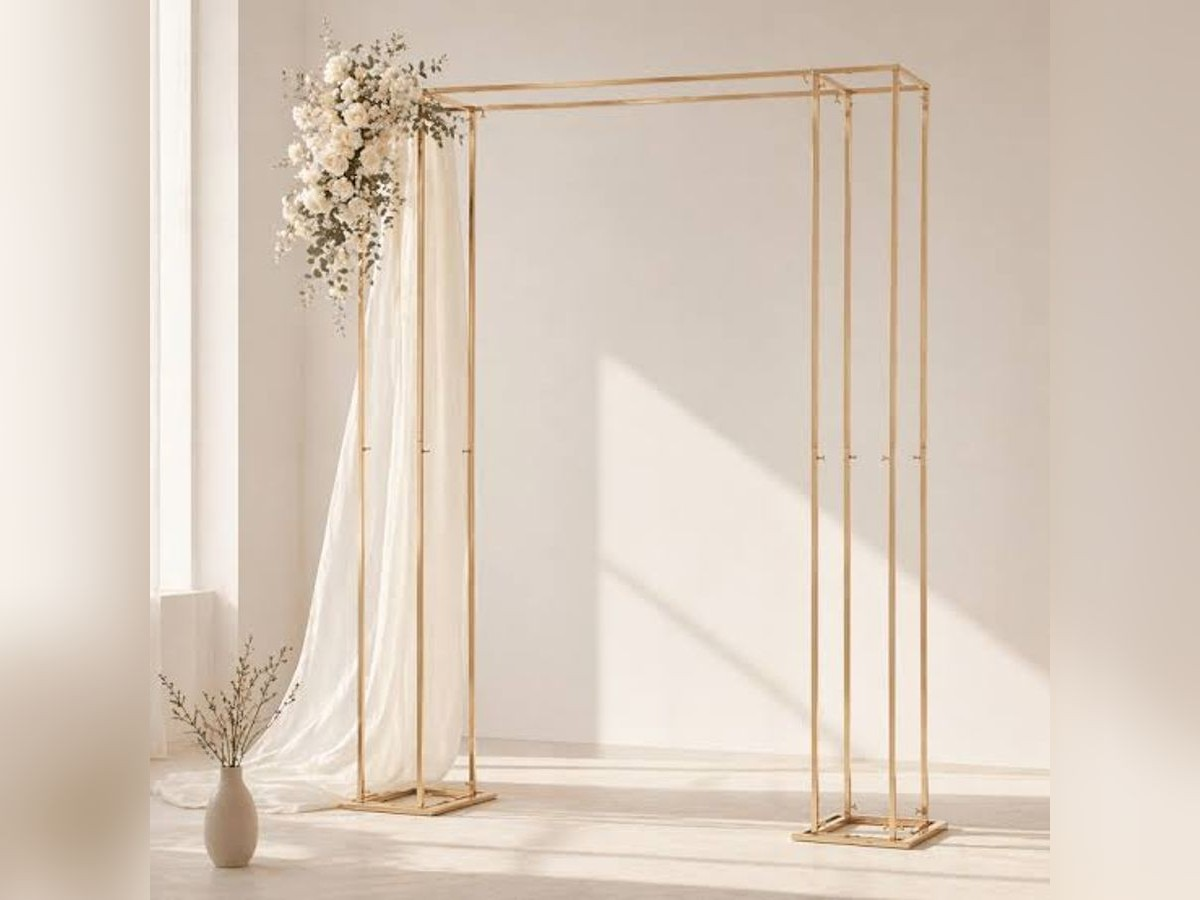
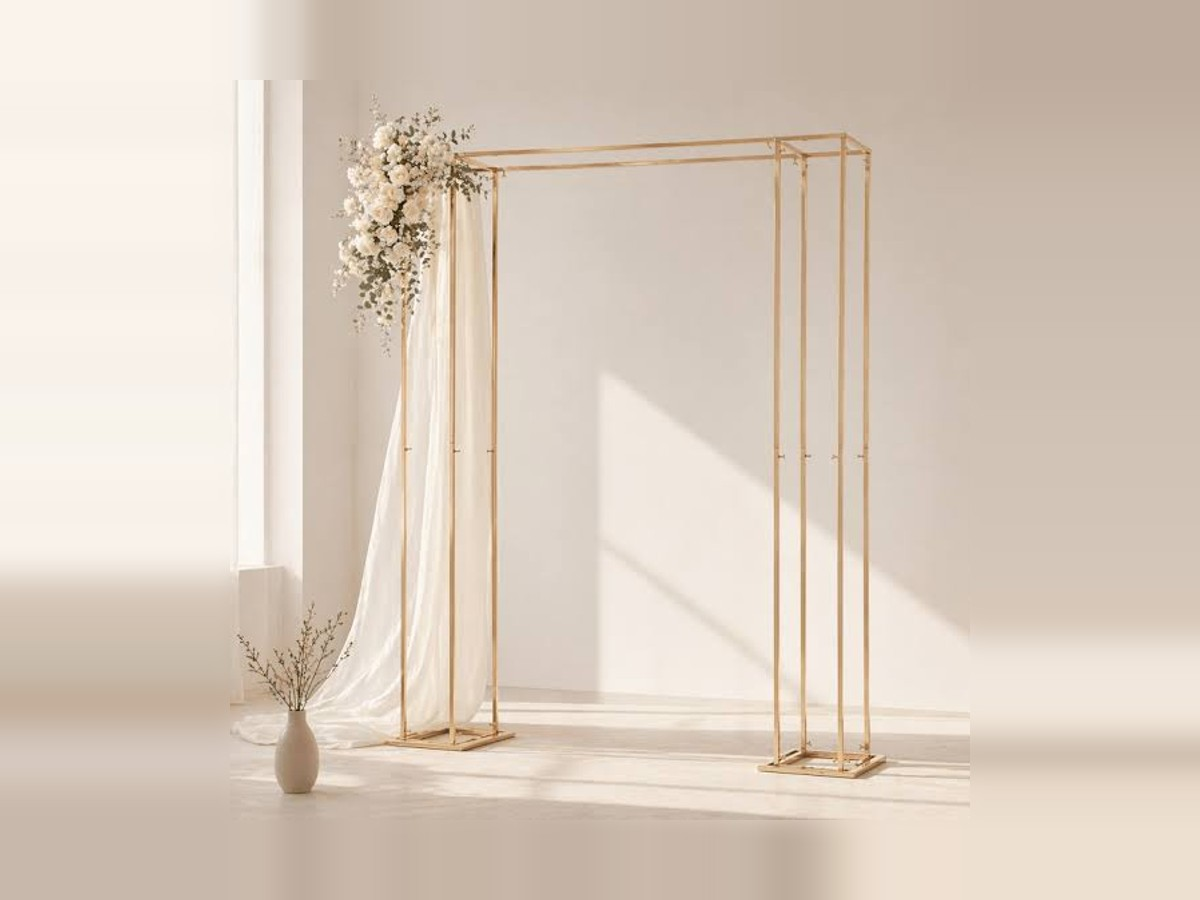
Fit the two team-supplied images to the item page frame

Changed region(s): [[0.0, 0.0, 1.0, 1.0], [0.0, 0.6222, 0.0925, 0.7778], [0.8325, 0.7156, 0.8942, 0.7467]]

diff --git a/seed-data/PHOTO_CREDITS.md b/seed-data/PHOTO_CREDITS.md
@@ -12,7 +12,7 @@ Presentation Clicker and Backdrop Stand use images the project team supplied on 
 2026. They are not openly licensed as far as is known: their source and licence are not
 recorded, and the clicker shows the Logitech name. Confirm the rights or replace them before
 public use. The clicker was cropped to 4:3, which also removed a corner logo from a seller;
-the stand was framed whole on a blurred copy of itself.
+the stand was made smaller in the frame and the room extended from its own edges.
 
 | Listing | Original file | Author | Licence |
 | --- | --- | --- | --- |
